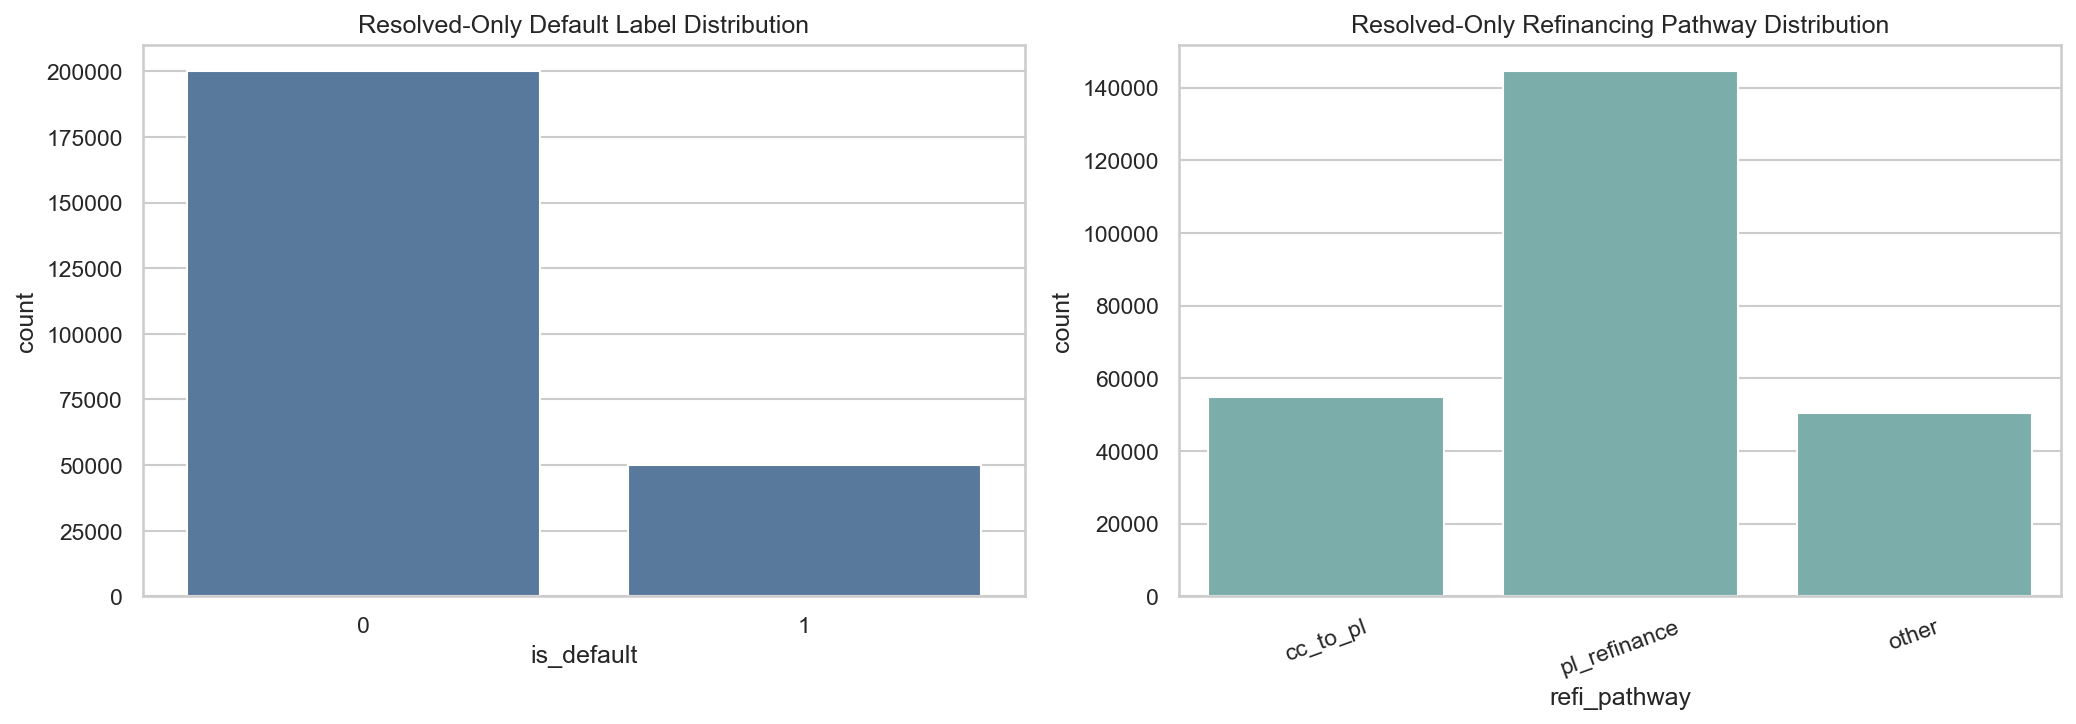
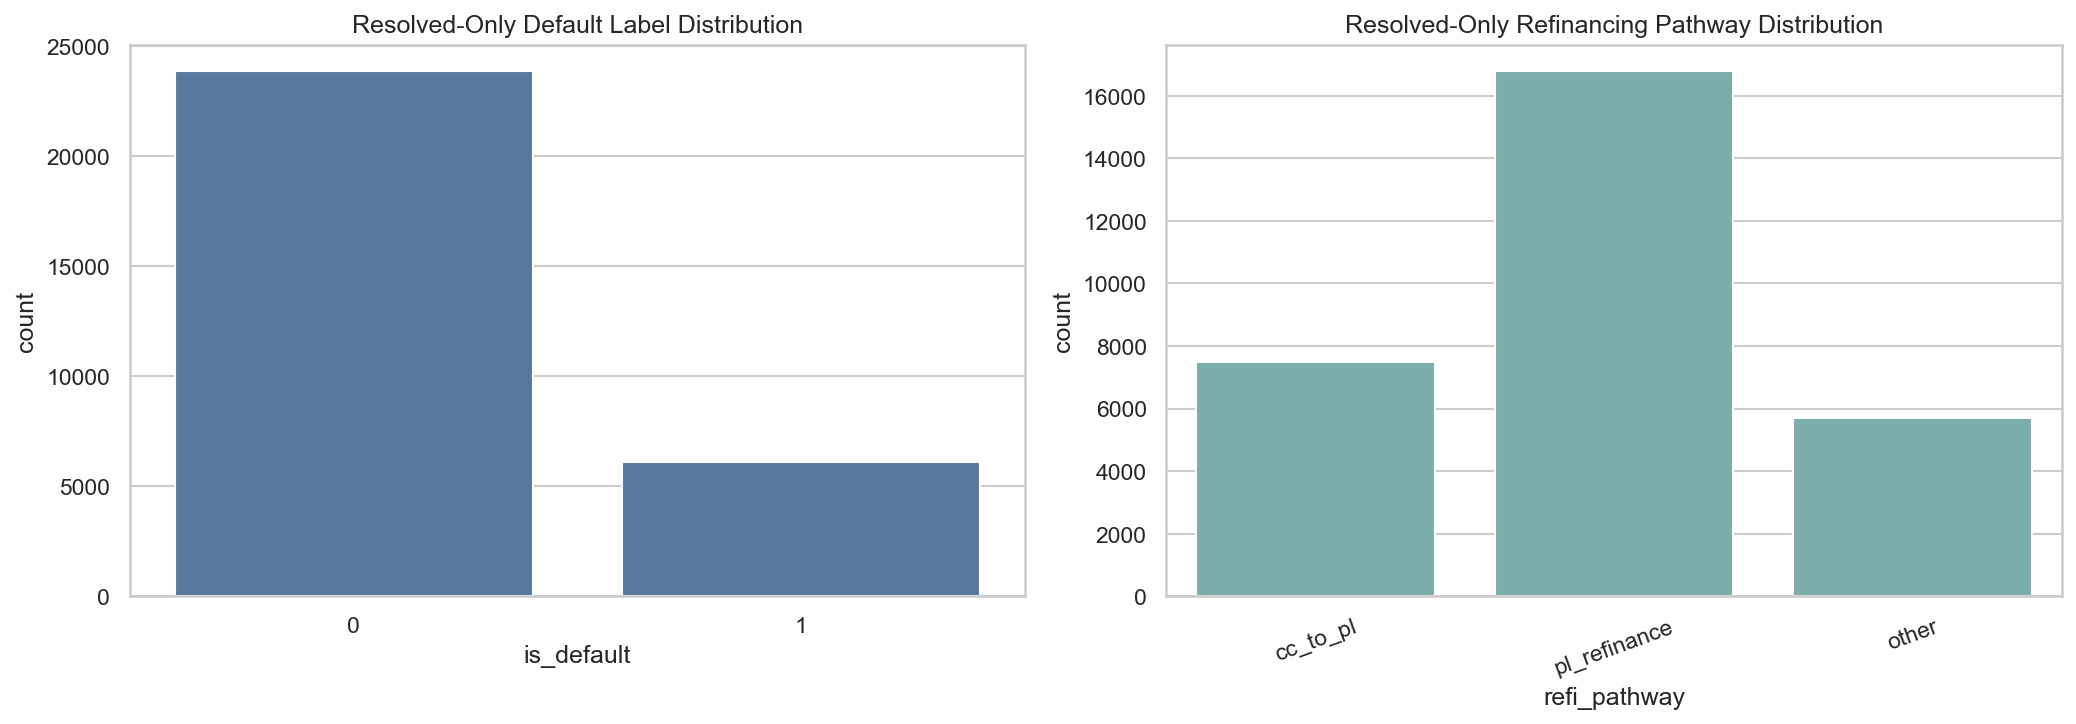
Strengthen EDA notebook with cleaning, outlier analysis, and reviewer-ready summary

diff --git a/README.md b/README.md
@@ -21,6 +21,31 @@ The goal is to build a practical, explainable ML pipeline that answers three cor
 - LendingClub Loan Dataset (Kaggle, 2007-2018)
 - Home Credit Default Risk (Kaggle)
 
+## Summary Findings (Latest Sampled EDA Run)
+- Run profile: `EDA_MAX_ROWS=50000`, `EDA_PLOT_SAMPLE=30000`
+- Total rows loaded: 50,000
+- Resolved rows used for supervised analysis: 44,006
+- Unresolved rows excluded: 5,994 (11.99%)
+- Resolved default rate: 20.52%
+- Resolved pathway mix:
+  - `pl_refinance`: 24,710
+  - `cc_to_pl`: 10,988
+  - `other`: 8,308
+- Data quality checks passed for duplicate IDs, negative income, and rate range checks.
+- Leakage exclusions are documented in `reports/tables/leakage_exclusions.csv`.
+
+## Primary Notebook for Review
+- EDA and initial report notebook: `notebooks/exploratory_data_analysis.ipynb`
+- End-to-end modeling notebook: `notebooks/end_to_end_pipeline.ipynb`
+- EDA output artifacts:
+  - `reports/tables/eda_summary.json`
+  - `reports/tables/data_quality_checks.csv`
+  - `reports/tables/data_cleaning_summary.csv`
+  - `reports/tables/missingness_before_after.csv`
+  - `reports/tables/outlier_analysis.csv`
+  - `reports/figures/eda_overview.png`
+  - `reports/figures/eda_feature_distributions.png`
+
 ## Quick Start
 1. Install dependencies from `requirements.txt`.
 2. Place raw datasets under `data/raw` (nested folders are supported).
